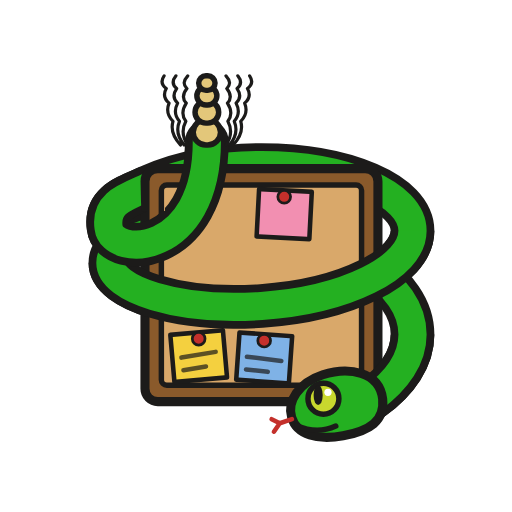
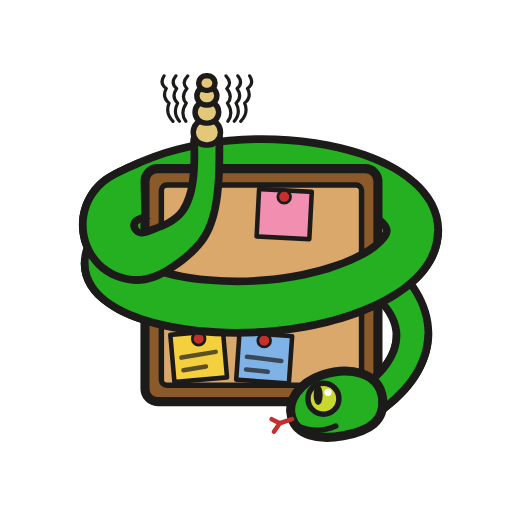
gave the snake a thick body tapering to the rattle

Changed region(s): [[0.1562, 0.2188, 0.875, 0.8125], [0.7188, 0.7188, 0.75, 0.75]]

diff --git a/CLAUDE.md b/CLAUDE.md
@@ -54,7 +54,7 @@ Every module has its <name>_test.mjs; the browser halves are encodings_test.html
 
 ### GUI
 
-- A PWA served from 127.0.0.1:8080 by `python3 -m http.server`, phone first, with tabs at the bottom: Inbox, Boards, Compose (its section and stored tab name are still `send`), Outbox and Station, Inbox first; the Log is the end of the Station tab, and a stored `log` tab opens the Inbox. sw.js fetches the whole app when it installs (FILES: the page, styles, icons, every module and all six WebAssembly modules, ROBUSTO's at both rates, about 1 MB), so it works offline once opened, even what the device hasn't used yet; requests go network first, and each online start fetches all of FILES again in the background so nothing goes stale. sw_test.mjs checks FILES against what index.html, the manifest and the modules load, so a new module can't be left out. The manifest has a fixed `id` ("./"). The logo, icon.svg, is a rattlesnake coiled round a board of notes, its rattle raised like an antenna with Rattlegram's rattling lines, in a white outline that keeps it clear on dark backgrounds, and within a circle; icon-192.png and icon-512.png are it on transparent, icon-180.png (iOS) on the dark background, and icon-maskable.svg is it at 90% on the dark background, inside the round safe zone, rendered to 192 and 512 pixels; all are rendered in Chromium at their size; .nojekyll keeps GitHub Pages from running Jekyll over the files.
+- A PWA served from 127.0.0.1:8080 by `python3 -m http.server`, phone first, with tabs at the bottom: Inbox, Boards, Compose (its section and stored tab name are still `send`), Outbox and Station, Inbox first; the Log is the end of the Station tab, and a stored `log` tab opens the Inbox. sw.js fetches the whole app when it installs (FILES: the page, styles, icons, every module and all six WebAssembly modules, ROBUSTO's at both rates, about 1 MB), so it works offline once opened, even what the device hasn't used yet; requests go network first, and each online start fetches all of FILES again in the background so nothing goes stale. sw_test.mjs checks FILES against what index.html, the manifest and the modules load, so a new module can't be left out. The manifest has a fixed `id` ("./"). The logo, icon.svg, is a rattlesnake coiled round a board of notes, its rattle raised like an antenna with Rattlegram's rattling lines, its body thin at the neck, thick through the coil and most of the tail and tapering to the rattle's width (outlines round the centre line, sampled densely and fitted with Bézier curves), in a white outline that keeps it clear on dark backgrounds, and within a circle; icon-192.png and icon-512.png are it on transparent, icon-180.png (iOS) on the dark background, and icon-maskable.svg is it at 90% on the dark background, inside the round safe zone, rendered to 192 and 512 pixels; all are rendered in Chromium at their size; .nojekyll keeps GitHub Pages from running Jekyll over the files.
 - The page loads the ROBUSTO modules for `AudioContext.sampleRate` (44100 or 48000), otherwise asks for 48000.
 - Inbox and Boards: conversations of the BBS tree, newest activity first, each a card with its subject, author, number of posts and last arrival, the inbox ones with why they are there (call signs and names marked as uncertain). Boards lists Everyone, the group-name boards and Elsewhere for Replies whose parent hasn't arrived. A conversation shows as a nested tree, posts drawn as in the log (faceless until trusted), indented at most four levels; a direct one hides posts by others behind "N more from others". Redrawn as frames arrive or trust changes; no unread tracking.
 - Log, at the end of Station (decoding a recording scrolls to it): every frame received and sent, newest first, with the parsed records. Malformed frames show as dropped. An identicon (mirrored 5x5 grid, colours --id-0..7) sits beside every verified signature, or the avatar with call sign and name once the key is trusted. Trust asks first, showing the whole fingerprint and any revocation seen of it; Untrust is one tap; a compromised key is marked and has no button, a retired key's posts that arrived after its revocation say "retired key", and a Revoke says whether it was kept; own keys say "your key" and show the call sign and name from the key list. From prefixes are marked unverified unless signed by a trusted key. To-Key chips show the recipient's identicon and, once trusted or own, its call sign and name, and whether it is revoked. Pictures (WebP parts, and MIME escapes whose bytes are PNG, JPEG, GIF or WebP, whatever type they claim) show as a "show picture, JPEG, 64x48, 1.0 KiB" button ("animated GIF" for one that moves), the full-size dialog with the same; in a thread, one up to 1024x1024 under a trusted key's signature is drawn right away, scaled to fit, and avatars under a trusted key's signature are drawn right away anywhere. One beyond 4096 pixels on a side, a possible decoding bomb, is never drawn right away: its button reads "show very large picture" in the warning colour and asks first, with its size and the memory it takes decoded, Cancel first; the Compose tab says so of such an attachment too. A drawn picture opens at full size in a dialog when tapped, scrolling if it is larger than the screen, closed by Close, Escape or a tap beside it; animated ones stay still there too until hovered or touched. Pictures, avatars, Codec2 (with its .c2 header rebuilt, version 0.8 for FFmpeg) and MIME files have a Save button: direct under a trusted key's signature, otherwise "Save…" asks twice, Cancel first; only a MIME escape names its file, the rest are named by their BLAKE2s-256 hash plus the extension of their type (.bin for unknown types). Posts with an ID have a Reply button, so only signed or Keyed ones.
